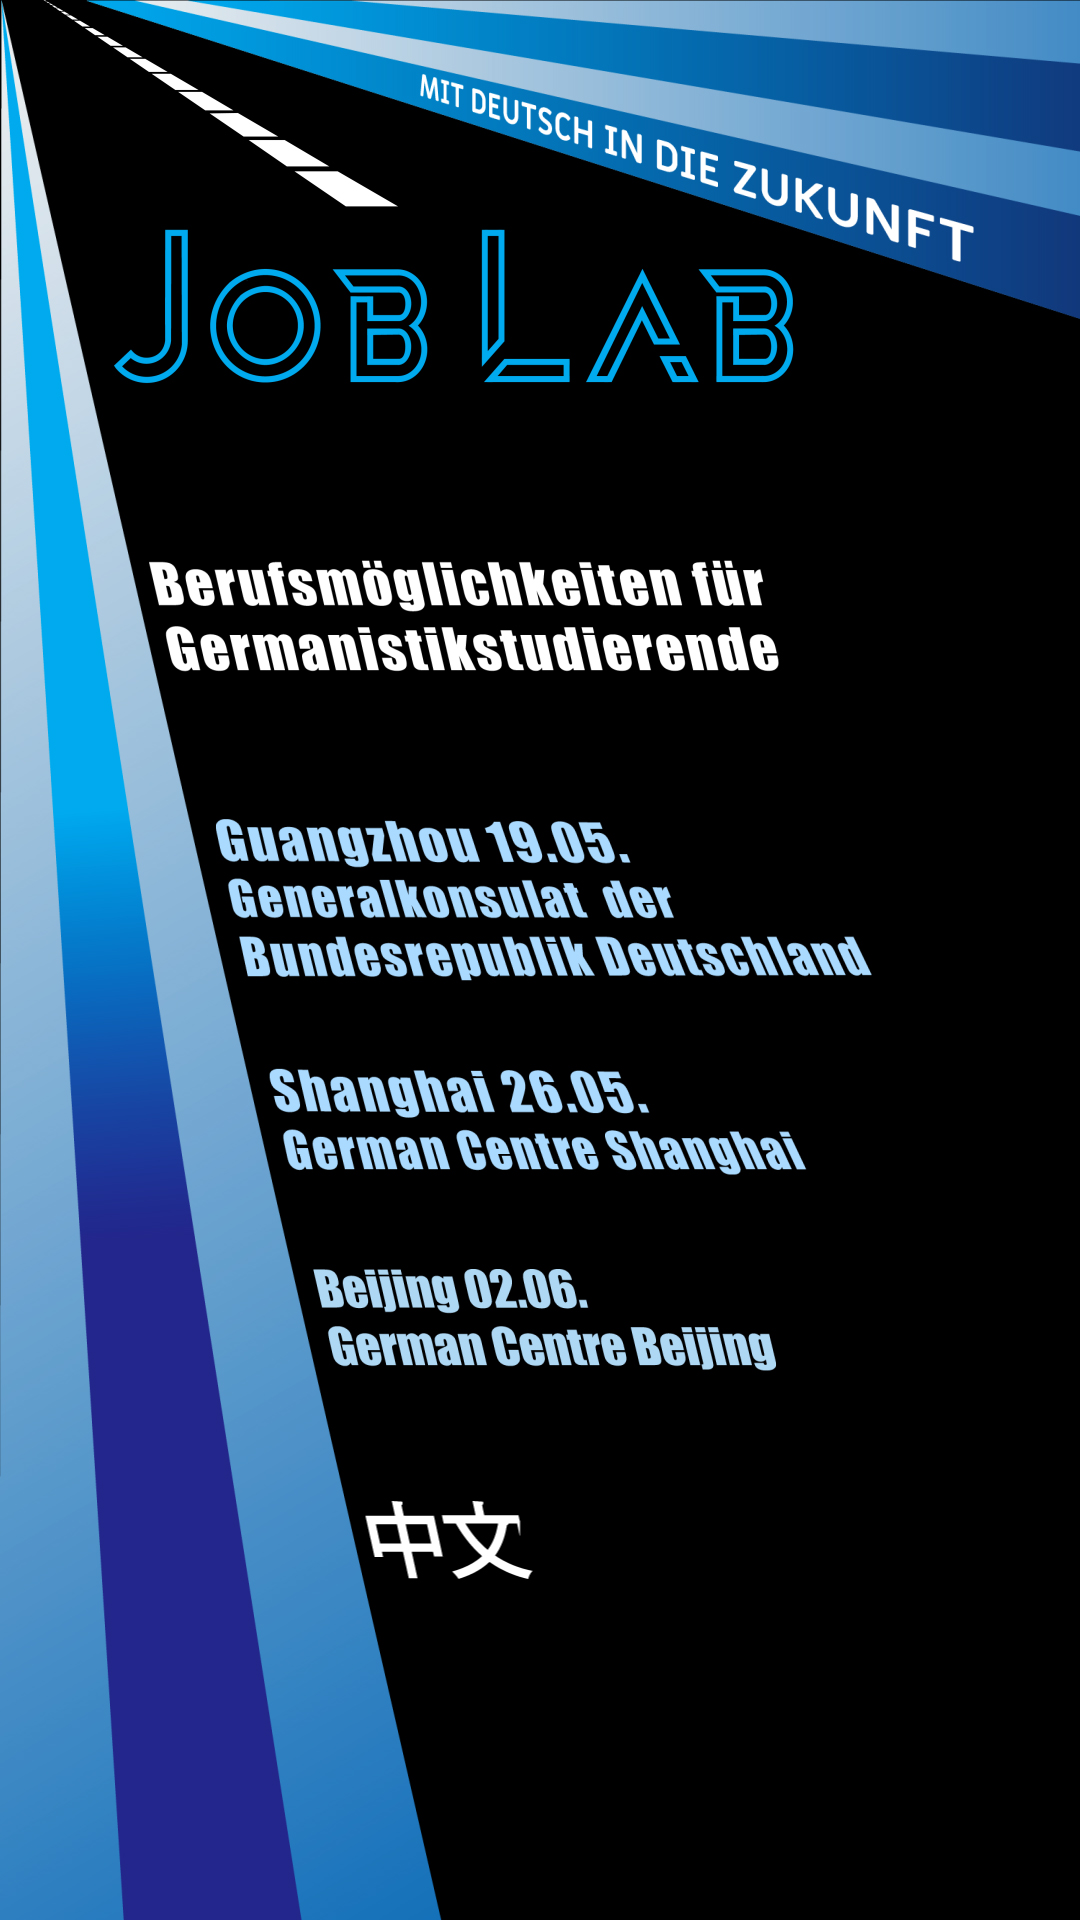
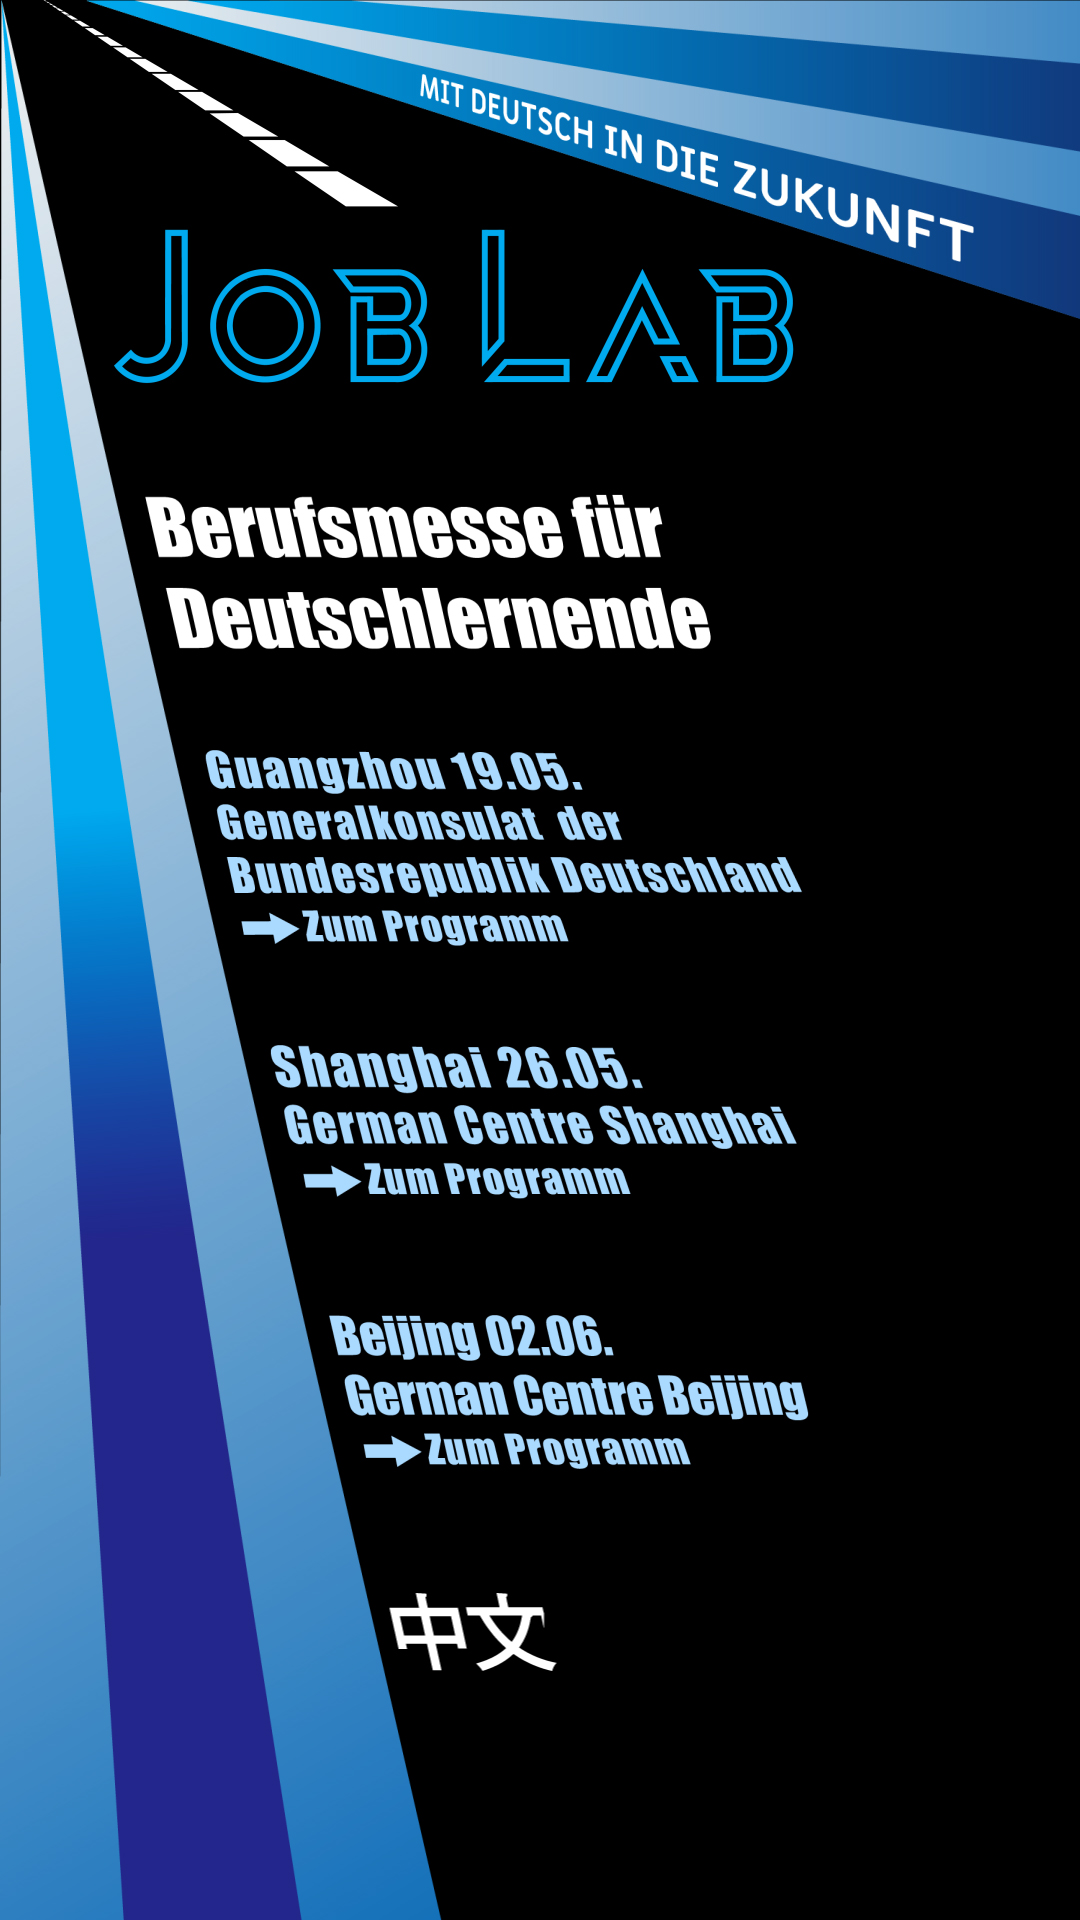
updating image and links

Changed region(s): [[0.1222, 0.25, 0.7944, 0.625], [0.275, 0.6562, 0.7639, 0.875]]

diff --git a/styles/style.css b/styles/style.css
@@ -60,7 +60,7 @@ body, html {
     position: absolute;
     width: 200px; 
     height: 55px; 
-    top: 570px; 
+    top: 81%; 
     left: 40%; 
     cursor: pointer; 
     background-color: rgba(255, 0, 0, 0); 
@@ -80,8 +80,8 @@ body, html {
         position: absolute;
         width: 145px; 
         height: 55px; 
-        top: 570px; 
-        left: 125px; 
+        top: 81%; 
+        left: 30%; 
         cursor: pointer; 
         background-color: rgba(255, 0, 0, 0); 
     }

diff --git a/plakat-01.html b/plakat-01.html
@@ -4,7 +4,7 @@
     <meta charset="UTF-8">
     <meta name="viewport" content="width=device-width, initial-scale=1.0">
     <title>Plakatvorschlag 01</title>
-    <link rel="stylesheet" href="style2.css">
+    <link rel="stylesheet" href="styles/style2.css">
 </head>
 <body>
     <div class="poster-container">

diff --git a/plakat-02.html b/plakat-02.html
@@ -4,7 +4,7 @@
     <meta charset="UTF-8">
     <meta name="viewport" content="width=device-width, initial-scale=1.0">
     <title>Plakatvorschlag 02</title>
-    <link rel="stylesheet" href="style2.css">
+    <link rel="stylesheet" href="styles/style2.css">
 </head>
 <body>
     <div class="poster-container">

diff --git a/plakat-03.html b/plakat-03.html
@@ -4,7 +4,7 @@
     <meta charset="UTF-8">
     <meta name="viewport" content="width=device-width, initial-scale=1.0">
     <title>Plakatvorschlag 03</title>
-    <link rel="stylesheet" href="style2.css">
+    <link rel="stylesheet" href="styles/style2.css">
 </head>
 <body>
     <div class="poster-container">
